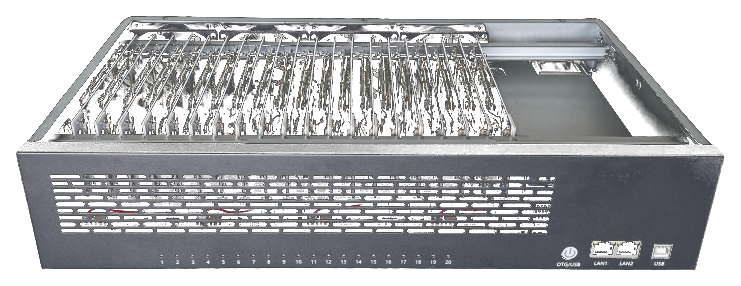
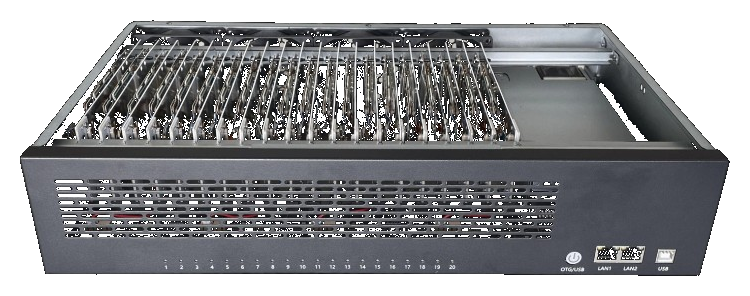
fix: restore full-color chassis photo on white background
Stop aggressive black keying that ate dark metal. Only replace pure black
export background with white and simplify hero markup.

diff --git a/scripts/process-products-hero.ts b/scripts/process-products-hero.ts
@@ -4,7 +4,7 @@ import sharp from "sharp";
 
 const input = path.resolve(
   process.argv[2] ??
-    "C:/Users/cdl30/.cursor/projects/d-phonefarm-fun/assets/c__Users_cdl30_AppData_Roaming_Cursor_User_workspaceStorage_254daf32293dc739eaaff9e13108dba3_images_Untitled_image-163e5e5f-a3e0-4353-9f19-ab49344a3ed3.png",
+    "C:/Users/cdl30/.cursor/projects/d-phonefarm-fun/assets/c__Users_cdl30_AppData_Roaming_Cursor_User_workspaceStorage_254daf32293dc739eaaff9e13108dba3_images_Untitled_image-f5a85912-d951-464c-b4de-f3e61e16d66a.png",
 );
 const outWebp = path.join(process.cwd(), "public/images/brand/products-hero-chassis.webp");
 const outPng = path.join(process.cwd(), "public/images/brand/products-hero-chassis.png");
@@ -15,46 +15,43 @@ async function main() {
   const meta = await sharp(input).metadata();
   console.log("Source:", meta.width, meta.height, "alpha:", meta.hasAlpha);
 
-  // Resize first for web — keeps processing fast
   const resized = sharp(input).rotate().resize(1600, undefined, { fit: "inside", withoutEnlargement: true });
 
   const { data, info } = await resized.ensureAlpha().raw().toBuffer({ resolveWithObject: true });
 
+  // If source already has transparency, keep pixels as-is.
+  // Otherwise only replace pure black export background with white — do NOT key dark metal.
   if (!meta.hasAlpha) {
     for (let i = 0; i < data.length; i += 4) {
       const r = data[i]!;
       const g = data[i + 1]!;
       const b = data[i + 2]!;
-      const lum = (r + g + b) / 3;
-      // Source was exported with solid black instead of alpha — key it out with a soft edge
-      if (lum < 40) {
-        data[i + 3] = 0;
-      } else if (lum < 72) {
-        data[i + 3] = Math.round(((lum - 40) / 32) * 255);
+      if (r <= 18 && g <= 18 && b <= 18) {
+        data[i] = 255;
+        data[i + 1] = 255;
+        data[i + 2] = 255;
+        data[i + 3] = 255;
       }
     }
   }
 
-  const raw = sharp(Buffer.from(data), {
+  const processed = sharp(Buffer.from(data), {
     raw: { width: info.width, height: info.height, channels: 4 },
-  });
-
-  const trimmed = raw
-    .clone()
-    .trim({ threshold: 10 })
+  })
+    .trim({ threshold: 10, background: meta.hasAlpha ? { r: 0, g: 0, b: 0, alpha: 0 } : { r: 255, g: 255, b: 255, alpha: 255 } })
     .extend({
-      top: 16,
-      bottom: 16,
-      left: 16,
-      right: 16,
-      background: { r: 0, g: 0, b: 0, alpha: 0 },
+      top: 20,
+      bottom: 20,
+      left: 20,
+      right: 20,
+      background: meta.hasAlpha ? { r: 0, g: 0, b: 0, alpha: 0 } : { r: 255, g: 255, b: 255, alpha: 255 },
     });
 
-  await trimmed.clone().webp({ quality: 90, alphaQuality: 100 }).toFile(outWebp);
-  await trimmed.clone().png({ compressionLevel: 9 }).toFile(outPng);
+  await processed.clone().webp({ quality: 92 }).toFile(outWebp);
+  await processed.clone().png({ compressionLevel: 9 }).toFile(outPng);
 
   const outMeta = await sharp(outWebp).metadata();
-  console.log("Saved:", outWebp, outMeta.width, outMeta.height, "alpha:", outMeta.hasAlpha);
+  console.log("Saved:", outWebp, outMeta.width, outMeta.height);
 }
 
 main().catch((e) => {

diff --git a/src/app/globals.css b/src/app/globals.css
@@ -120,33 +120,9 @@ body {
   @apply relative z-10 grid lg:grid-cols-[0.85fr_1.15fr] gap-6 lg:gap-8 items-center min-h-[460px] md:min-h-[500px] lg:min-h-[540px] py-10 md:py-12;
 }
 
-/* Transparent product PNG on dark hero — soft light behind cutout, not black */
-.hero-product-cutout {
-  @apply relative w-full aspect-[16/10] lg:aspect-[5/3] min-h-[240px] md:min-h-[300px] lg:min-h-[380px];
-}
-
-.hero-product-cutout::after {
-  content: "";
-  @apply absolute inset-[2%] pointer-events-none rounded-3xl;
-  z-index: 0;
-  background: radial-gradient(
-    ellipse 82% 78% at 50% 44%,
-    rgba(250, 250, 251, 0.94) 0%,
-    rgba(228, 228, 231, 0.62) 48%,
-    rgba(255, 255, 255, 0) 72%
-  );
-}
-
-.hero-product-cutout-inner {
-  @apply absolute inset-0 scale-[1.06] md:scale-[1.1] lg:scale-[1.14] origin-center;
-  z-index: 1;
-}
-
-.hero-product-cutout img {
-  object-fit: contain;
-  object-position: center;
-  padding: 0;
-  filter: drop-shadow(0 16px 32px rgba(0, 0, 0, 0.35));
+/* Hero product photo — white-background asset, no cutout tricks */
+.hero-product-photo {
+  @apply relative w-full aspect-[16/10] min-h-[240px] md:min-h-[300px] lg:min-h-[360px];
 }
 
 .shop-hero-bg {
@@ -359,12 +335,8 @@ body {
     linear-gradient(180deg, #ffffff 0%, #fafafa 100%);
 }
 
-.shop-hero--light .hero-product-cutout::after {
-  display: none;
-}
-
-.shop-hero--light .hero-product-cutout img {
-  filter: drop-shadow(0 12px 28px rgba(0, 0, 0, 0.14));
+.shop-hero--light .hero-product-photo img {
+  padding: 0;
 }
 
 .shop-hero--clean {

diff --git a/src/components/home-hero.tsx b/src/components/home-hero.tsx
@@ -37,17 +37,15 @@ export function HomeHero() {
           </div>
         </div>
 
-        <div className="relative z-10 hero-product-cutout lg:-mr-4">
-          <div className="hero-product-cutout-inner">
-            <Image
-              src={IMAGES.productsHeroChassis}
-              alt="20-node phone farm box chassis with USB, LAN1, LAN2 and OTG ports"
-              fill
-              className="object-contain object-center"
-              priority
-              sizes="(max-width:1024px) 100vw, 640px"
-            />
-          </div>
+        <div className="relative z-10 hero-product-photo lg:-mr-4">
+          <Image
+            src={IMAGES.productsHeroChassis}
+            alt="20-node phone farm box chassis with USB, LAN1, LAN2 and OTG ports"
+            fill
+            className="object-contain object-center"
+            priority
+            sizes="(max-width:1024px) 100vw, 640px"
+          />
         </div>
       </div>
 

diff --git a/src/components/products-catalog-hero.tsx b/src/components/products-catalog-hero.tsx
@@ -56,7 +56,7 @@ export function ProductsCatalogHero() {
           </div>
 
           <div className="grid grid-cols-[1.15fr_0.85fr] gap-3">
-            <Link href={main.href} className="catalog-hero-stage catalog-hero-stage--main catalog-hero-stage--cutout row-span-2 group">
+            <Link href={main.href} className="catalog-hero-stage catalog-hero-stage--main row-span-2 group bg-white border-zinc-200/80">
               <Image
                 src={main.src}
                 alt={main.label}

diff --git a/src/lib/images.ts b/src/lib/images.ts
@@ -25,7 +25,7 @@ export const IMAGES = {
   /** Bottom CTA — motherboard cluster, reads well at wide aspect */
   /** Bottom CTA — motherboard cluster, reads well at wide aspect */
   homeCtaBg: r("motherboard-box-real-1.webp"),
-  /** Products catalog hero — transparent chassis cutout */
+  /** Products catalog hero — chassis on white background */
   productsHeroChassis: "/images/brand/products-hero-chassis.webp",
 
   phoneFarmBox: {
